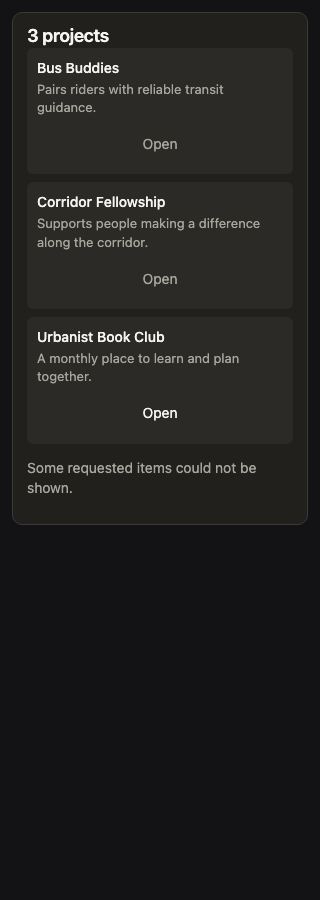
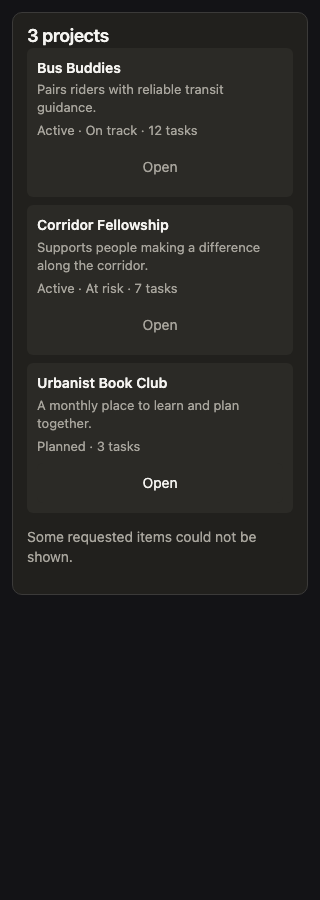
feat(mcp): Preserve project state in compact views
Project batches now retain the explanation of each line of work
alongside live status, health, and task count. This gives a model or
person enough context to choose a project without opening all of them,
while the entity runtime keeps the rows responsive and their Docket
actions explicit.

The visual evidence, audit, work log, and behavior fixture now record
the compact briefing contract across themed and bare hosts at narrow and
wide widths.

diff --git a/apps/api/src/mcp/apps/entity.ts b/apps/api/src/mcp/apps/entity.ts
@@ -315,9 +315,11 @@ function scriptFor(entityType?: EntityDocumentType): string {
     }
   }
 
-  function batchContext(item) {
-    const narrative = text(item.description || item.summary || (item.latestUpdate && item.latestUpdate.body));
-    if (narrative) return narrative;
+  function batchNarrative(item) {
+    return text(item.description || item.summary || (item.latestUpdate && item.latestUpdate.body));
+  }
+
+  function batchStatus(item) {
     const parts = [stateText(item), item.health && window.docket.label(item.health)];
     if (type === 'project' && typeof item.taskCount === 'number') parts.push(item.taskCount + ' tasks');
     if (type === 'program' && item.rollup) parts.push(item.rollup.projects + ' projects · ' + item.rollup.tasks + ' tasks');
@@ -340,8 +342,10 @@ function scriptFor(entityType?: EntityDocumentType): string {
       name.className = 'batch-title';
       name.textContent = nameOf(item);
       copy.appendChild(name);
-      const context = batchContext(item);
-      if (context) appendText(copy, 'batch-context muted', context);
+      const narrative = batchNarrative(item);
+      if (narrative) appendText(copy, 'batch-context muted', narrative);
+      const status = batchStatus(item);
+      if (status) appendText(copy, 'batch-meta muted', status);
       row.appendChild(copy);
       if (item.href) {
         const open = document.createElement('button');

diff --git a/apps/api/src/mcp/apps/runtime.ts b/apps/api/src/mcp/apps/runtime.ts
@@ -695,10 +695,18 @@ body[data-state='error'] .skeleton { display: none; }
 }
 .entity-preview-copy,
 .batch-copy { min-width: 0; flex: 1 1 auto; }
-.entity-preview-title,
-.batch-title { overflow: hidden; text-overflow: ellipsis; white-space: nowrap; font-weight: var(--font-weight-medium); }
+.entity-preview-title { overflow: hidden; text-overflow: ellipsis; white-space: nowrap; font-weight: var(--font-weight-medium); }
+.batch-title {
+  overflow: hidden;
+  text-overflow: ellipsis;
+  white-space: nowrap;
+  font-size: var(--font-text-md-size);
+  line-height: var(--font-text-md-line-height);
+  font-weight: var(--font-weight-semibold);
+}
 .entity-preview-secondary,
 .batch-context { margin-top: 2px; overflow: hidden; text-overflow: ellipsis; white-space: nowrap; font-size: var(--font-text-sm-size); line-height: var(--font-text-sm-line-height); }
+.batch-meta { margin-top: 5px; font-size: var(--font-text-sm-size); line-height: var(--font-text-sm-line-height); }
 .entity-preview-action { flex: 0 0 auto; }
 .batch-list { display: grid; gap: 8px; }
 .batch-item {

diff --git a/apps/web/e2e/mcp/widget-shots.spec.ts b/apps/web/e2e/mcp/widget-shots.spec.ts
@@ -943,6 +943,12 @@ for (const palette of PALETTES) {
               await expect(body).toContainText('Pairs riders with reliable transit guidance.');
               await expect(body).toContainText('Corridor Fellowship');
               await expect(body).toContainText('Urbanist Book Club');
+              // A project row is a compact briefing rather than a stack of generic fields: its
+              // description says what the work is, and its status/health plus task count say
+              // where that work stands right now.
+              await expect(body).toContainText('Active · On track · 12 tasks');
+              await expect(body).toContainText('Active · At risk · 7 tasks');
+              await expect(body).toContainText('Planned · 3 tasks');
               if (testCase.name === 'entity-projects-batch') {
                 await expect(body).toContainText('Some requested items could not be shown.');
               } else {

diff --git a/docs/design/audits/2026-08-05-mcp-apps.md b/docs/design/audits/2026-08-05-mcp-apps.md
@@ -62,9 +62,10 @@ metadata so model discovery leads with explicit `get_tasks`, `get_projects`, and
 same-type reads. Each returns server-owned `href` values: a widget never guesses whether an entity
 is a task. A singleton is an entity-owned briefing: projects lead with an outcome and real active
 work, updates lead with their writing, and sessions lead with the current task and activity. A
-batch is deliberately compact but carries a meaningful second line and one correctly labelled
-"Open in Docket" action per item. The Bus Buddies three-project case proves that every requested
-row renders, its outcome remains visible at 320px, and a missing reference stays a quiet note.
+batch is deliberately compact but carries an outcome line, then the current status/health or
+planning rollup, and one correctly labelled "Open in Docket" action per item. The Bus Buddies
+three-project case proves that every requested row renders, its outcome and current work remain
+visible at 320px, and a missing reference stays a quiet note.
 Only the single task document exposes state and due-date controls.
 
 ## The starting point
@@ -73,16 +74,16 @@ This review was triggered by a screenshot of a live `update` call: a card in bro
 with no background fill, whose content overflowed the frame and was clipped mid-sentence, beside a
 second card stuck on the word "Working…". Three independent causes, none of which could fail loudly.
 
-| Dimension                | Score | Evidence                                                                                                                                                                                                                                                                                                                                                                                                                                  |
-| ------------------------ | ----- | ----------------------------------------------------------------------------------------------------------------------------------------------------------------------------------------------------------------------------------------------------------------------------------------------------------------------------------------------------------------------------------------------------------------------------------------- |
-| Brand identity & voice   | 3     | Host skin, Docket bones: the palette and font are the host's, the information design is Docket's. The workflow-state glyph grammar is ported from `StatusIcon.tsx` and keyed off the canonical type (`work-list-every-state-type-*`), so a team that renames "In Progress" still reads correctly. Not a 4: the typeface cannot be Plex under `font-src 'self'`, and no other brand carrier replaces it.                                   |
-| Typographic craft        | 3     | Every size, weight and line-height comes from the extension's `--font-*` tokens with literal fallbacks; no hardcoded `13px` survives. The scale is deliberately small — three text sizes and one heading — which is right for a card but is not craft worth a 4.                                                                                                                                                                          |
-| Spatial rhythm & density | 4     | Entity headers use a 6px internal rhythm; content sections step by 18px and preview items have their own 9/10px inset. This makes narrative, planning work, and supporting facts read as layers rather than one piled-up list (`entity-project-themed-light-wide`). At 320px, batch items recompose into title, outcome, and full-width action rather than squeezing their desktop columns (`entity-projects-batch-themed-light-narrow`). |
-| Hierarchy & information  | 4     | A project now says what it is for before it says how many tasks it has: the Bus Buddies title/outcome precedes status context, actual active work, milestones, initiatives, and latest update. Sessions lead with the task and agent, then recent activity (`entity-session-themed-dark-wide`). The batch second line is outcome copy, not another count.                                                                                 |
-| Color discipline         | 3     | Every colour is a spec token with a `light-dark()` fallback whose both halves clear AA against the surface they sit on, computed rather than eyeballed. State colours are Docket's `--state-*` ramp verbatim. Not a 4: the palette is narrow and no accent does any work.                                                                                                                                                                 |
-| Motion & feedback        | 3     | Skeleton pulse, height transition as a card grows into its measured size, both behind `prefers-reduced-motion`. Correct and unambitious.                                                                                                                                                                                                                                                                                                  |
-| States completeness      | 4     | Was the worst dimension and is now the best-covered. Loading, stalled at 20s, failed, cancelled, empty, and overflow are each real states with their own copy, and each is photographed. The spec asserts `data-state` per case, so a card cannot regress to claiming work is happening when it is not.                                                                                                                                   |
-| Detail craft (squint)    | 4     | Project titles now hold the strongest weight and the same left edge as their outcome. Relationship headings never render empty, preview cards separate from their headings, and supporting facts align as a definition layout on roomy cards before intentionally becoming two-line facts at 320px. Every visible action remains labelled and focusable.                                                                                  |
+| Dimension                | Score | Evidence                                                                                                                                                                                                                                                                                                                                                                                                                                   |
+| ------------------------ | ----- | ------------------------------------------------------------------------------------------------------------------------------------------------------------------------------------------------------------------------------------------------------------------------------------------------------------------------------------------------------------------------------------------------------------------------------------------ |
+| Brand identity & voice   | 3     | Host skin, Docket bones: the palette and font are the host's, the information design is Docket's. The workflow-state glyph grammar is ported from `StatusIcon.tsx` and keyed off the canonical type (`work-list-every-state-type-*`), so a team that renames "In Progress" still reads correctly. Not a 4: the typeface cannot be Plex under `font-src 'self'`, and no other brand carrier replaces it.                                    |
+| Typographic craft        | 3     | Every size, weight and line-height comes from the extension's `--font-*` tokens with literal fallbacks; no hardcoded `13px` survives. The scale is deliberately small — three text sizes and one heading — which is right for a card but is not craft worth a 4.                                                                                                                                                                           |
+| Spatial rhythm & density | 4     | Entity headers use a 6px internal rhythm; content sections step by 18px and preview items have their own 9/10px inset. This makes narrative, planning work, and supporting facts read as layers rather than one piled-up list (`entity-project-themed-light-wide`). At 320px, batch items recompose into title, outcome, and full-width action rather than squeezing their desktop columns (`entity-projects-batch-themed-light-narrow`).  |
+| Hierarchy & information  | 4     | A project now says what it is for before it says how many tasks it has: the Bus Buddies title/outcome precedes status context, actual active work, milestones, initiatives, and latest update. Sessions lead with the task and agent, then recent activity (`entity-session-themed-dark-wide`). Batch rows retain the outcome, then add live status/health plus a short work rollup rather than making the project title a metadata label. |
+| Color discipline         | 3     | Every colour is a spec token with a `light-dark()` fallback whose both halves clear AA against the surface they sit on, computed rather than eyeballed. State colours are Docket's `--state-*` ramp verbatim. Not a 4: the palette is narrow and no accent does any work.                                                                                                                                                                  |
+| Motion & feedback        | 3     | Skeleton pulse, height transition as a card grows into its measured size, both behind `prefers-reduced-motion`. Correct and unambitious.                                                                                                                                                                                                                                                                                                   |
+| States completeness      | 4     | Was the worst dimension and is now the best-covered. Loading, stalled at 20s, failed, cancelled, empty, and overflow are each real states with their own copy, and each is photographed. The spec asserts `data-state` per case, so a card cannot regress to claiming work is happening when it is not.                                                                                                                                    |
+| Detail craft (squint)    | 4     | Project titles now hold the strongest weight and the same left edge as their outcome. Relationship headings never render empty, preview cards separate from their headings, and supporting facts align as a definition layout on roomy cards before intentionally becoming two-line facts at 320px. Every visible action remains labelled and focusable.                                                                                   |
 
 ## Gates
 

diff --git a/docs/WORKLOG.md b/docs/WORKLOG.md
@@ -7,6 +7,32 @@
 
 ## Active Tasks
 
+### [MCP-APPS-ENTITY-001] Give Docket MCP reads semantic entity briefings
+
+- **Status**: REVIEW
+- **Started**: 2026-08-11
+- **Priority**: P1
+- **Description**: Docket exposed one generic `get` tool for every readable entity and rendered
+  its output as an undifferentiated card that could silently choose the first result. The MCP App
+  needed type-specific reads, server-owned routes, and an interface that presents a project as
+  work with an outcome rather than a metadata dump.
+- **Approach**: Keep canonical `docket://` reads and the legacy callable `get`, but lead model
+  discovery with twelve same-type read tools. Render all documents with one responsive runtime,
+  while each entity composes its own briefing. A single result carries the detail appropriate to
+  that entity; a batch is a set of compact rows. Project rows now retain title, outcome,
+  status/health, and task rollup together so the compact view remains decision-useful.
+- **Validation**: API MCP surface, capability, and widget tests pass. The widget evidence suite
+  captures all entity fixtures at 320px and 720px in light/dark and bare/themed host variants;
+  the three-project batch asserts every route and its status/health/work line. Production CI run
+  `31549913262` deployed commit `4b0b0ff1` successfully; the web, admin, and API health routes
+  return 200.
+- **Blockers**: A real authenticated third-party MCP host capture remains unavailable in this
+  environment. Both available browsers are unauthenticated, and Docket's host endpoints are
+  deliberately owner-scoped to a signed-in user with a personal MCP connection. The audit is
+  honestly marked `target_host: pending`; the public marketing page is not substituted as proof.
+- **Notes**: No schema migration was needed. The one remaining capture requires an authenticated
+  host session with a connected Docket server and readable project data.
+
 ### [GITHUB-INSTALL-002] Complete every provider connection in one ceremony
 
 - **Status**: IN_PROGRESS
